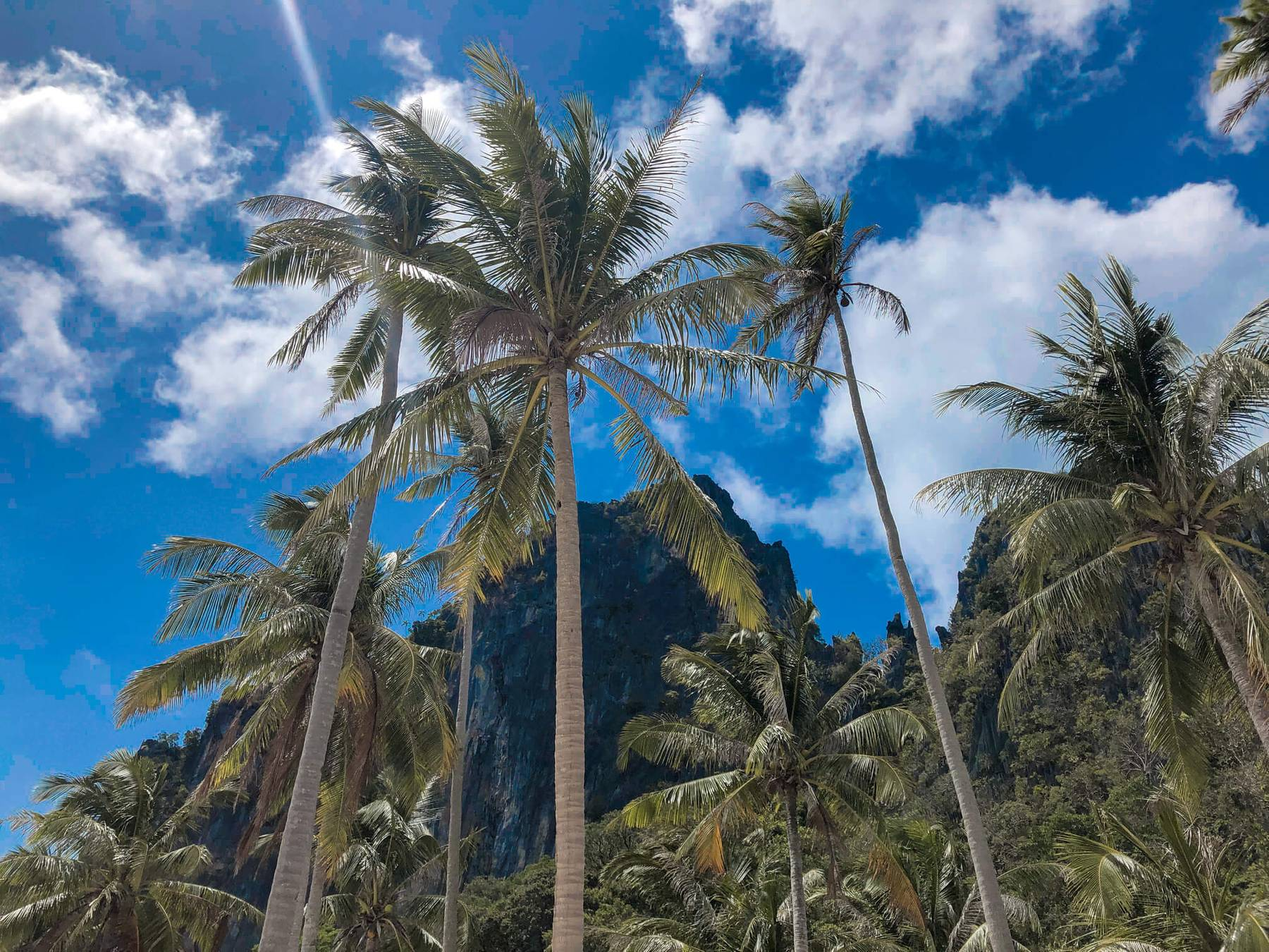
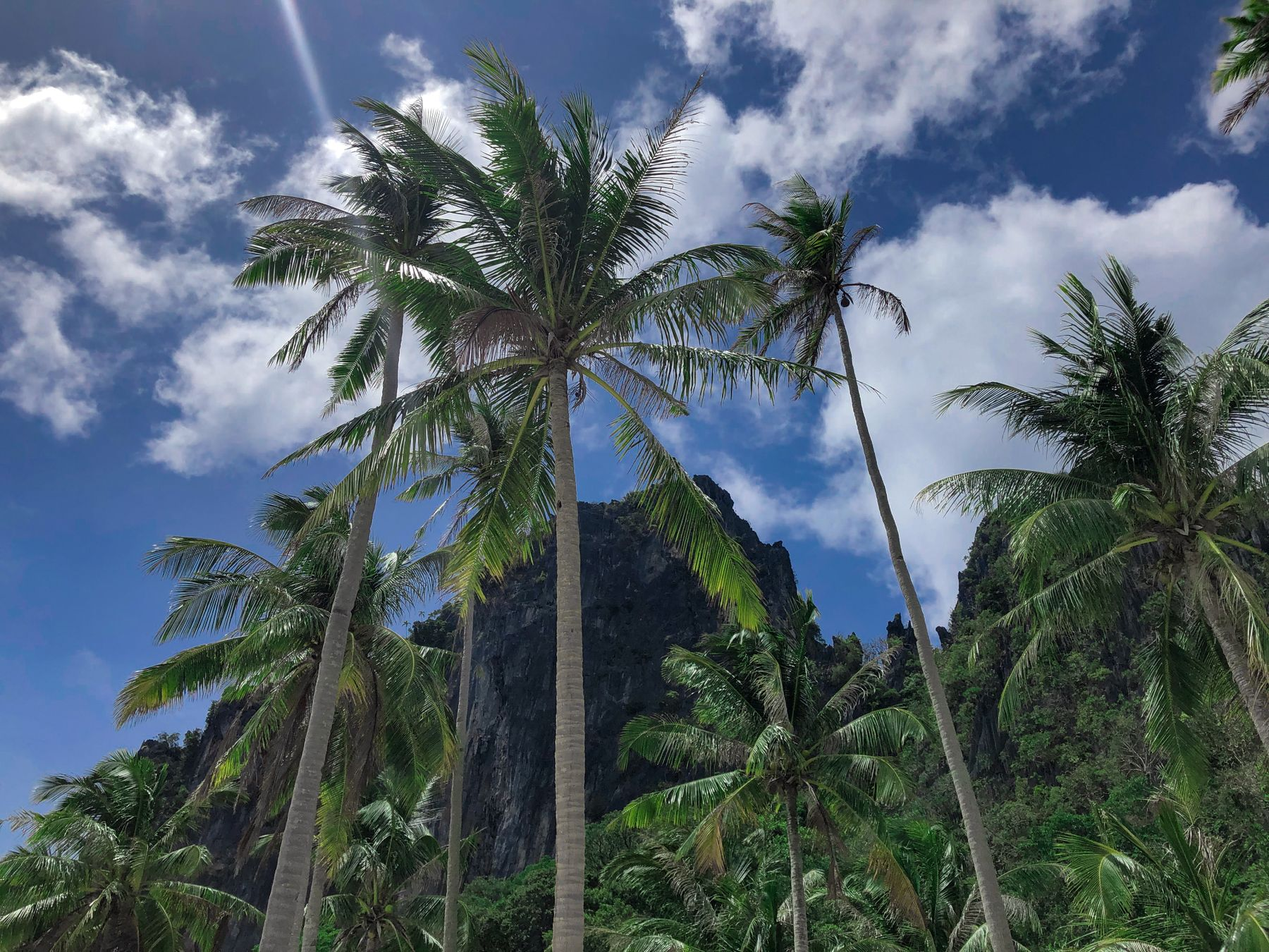
chore: stuff

diff --git a/src/pages/asia/vietnam/southern-vietnam/index.tsx b/src/pages/asia/vietnam/southern-vietnam/index.tsx
@@ -1,16 +1,18 @@
-import React, { useContext } from "react"
+import React, { useContext, useState } from "react"
 import SEO from "../../../../components/layout/seo"
 import vietnamHat from "../../../../images/asia/vietnam/hat.svg"
 import {
   VietnamBlogLayout,
   VietnamButtonLink,
   VietnamImageAsMedallion,
+  vietnamWeatherEntries,
 } from "../../../../components/core/asia/vietnam/vietnam"
 import {
   CityHomeSection,
   MainTitleSection,
   PointOfInterestSection,
   SectionContent,
+  SubHomeSection,
   SubSubHomeSection,
 } from "../../../../components/core/section"
 import { getArticles, getLinkLabel, isLinkPublished, sortByLabel } from "../../../../components/core/links/links.utils"
@@ -39,6 +41,8 @@ import { Divider } from "../../../../components/core/divider"
 import { Monument } from "../../../../components/icon/monument"
 import { Hiking } from "../../../../components/icon/hiking"
 import { CityIcon } from "../../../../components/icon/city"
+import { WeatherForHomePage } from "../../../../components/core/weather"
+import { MouseToolTip, TooltipContent } from "../../../../components/core/tooltipPortal"
 
 const namespace = "asia/vietnam/southern-vietnam/index"
 i18n.addResourceBundle("fr", namespace, translationFr)
@@ -50,6 +54,7 @@ const isNotCurrentPage = (city: CityLink) => city.id !== currentPageId
 const IndexPage: React.FunctionComponent<PageProps> = ({ location }) => {
   const { development } = useContext(ApplicationContext)
   const { t, i18n } = useCustomTranslation([namespace, "common"])
+  const [tooltipLabel, setTooltipLabel] = useState("")
   const cities = development
     ? vietnamLinks.cities.filter(isNotCurrentPage)
     : vietnamLinks.cities.filter(isLinkPublished).filter(isNotCurrentPage)
@@ -115,6 +120,13 @@ const IndexPage: React.FunctionComponent<PageProps> = ({ location }) => {
             </CityArticleContainer>
           </>
         )}
+        <Divider />
+        <SubHomeSection>{t("weather")}</SubHomeSection>
+        <WeatherForHomePage
+          entries={vietnamWeatherEntries(t).filter((entry) => entry.id === "south")}
+          onMouseLeave={() => setTooltipLabel("")}
+          onMouseEnter={setTooltipLabel}
+        />
         {cities.length > 0 && (
           <>
             <Divider className="mt2" />
@@ -136,6 +148,20 @@ const IndexPage: React.FunctionComponent<PageProps> = ({ location }) => {
         <GoToAllArticlesContainer>
           <VietnamButtonLink to="articles?country=vietnam">Tous nos articles</VietnamButtonLink>
         </GoToAllArticlesContainer>
+        <MouseToolTip>
+          {tooltipLabel ? (
+            <TooltipContent>
+              {tooltipLabel.split("\n").map((item, index) => {
+                return (
+                  <span key={index}>
+                    {item}
+                    <br />
+                  </span>
+                )
+              })}
+            </TooltipContent>
+          ) : null}
+        </MouseToolTip>
       </VietnamBlogLayout>
     </>
   )

diff --git a/src/components/core/weather.tsx b/src/components/core/weather.tsx
@@ -1169,23 +1169,23 @@ export const Weather: React.FunctionComponent<{
                         .concat(data.alt || [])
                         .map((alt) =>
                           alt === "hot" ? (
-                            <Hot className={`alt alt-left`} />
+                            <Hot className={`alt alt-left`} key={alt} />
                           ) : alt === "droplet" ? (
-                            <Droplet className={`alt alt-right`} />
+                            <Droplet className={`alt alt-right`} key={alt} />
                           ) : alt === "cold" ? (
-                            <Cold className={`alt alt-left`} />
+                            <Cold className={`alt alt-left`} key={alt} />
                           ) : alt === "arctic" ? (
-                            <Arctic className={`alt alt-left`} />
+                            <Arctic className={`alt alt-left`} key={alt} />
                           ) : alt === "snow-man" ? (
-                            <SnowMan className={`alt alt-right`} />
+                            <SnowMan className={`alt alt-right`} key={alt} />
                           ) : alt === "sakura" ? (
-                            <Sakura className={`alt alt-right`} />
+                            <Sakura className={`alt alt-right`} key={alt} />
                           ) : alt === "autumn" ? (
-                            <Autumn className={`alt alt-right`} />
+                            <Autumn className={`alt alt-right`} key={alt} />
                           ) : alt === "scuba" ? (
-                            <Scuba className={`alt alt-right`} />
+                            <Scuba className={`alt alt-right`} key={alt} />
                           ) : alt === "jelly-fish" ? (
-                            <JellyFish className={`alt alt-top-left`} />
+                            <JellyFish className={`alt alt-top-left`} key={alt} />
                           ) : null
                         )}
                     </td>

diff --git a/src/components/core/section.tsx b/src/components/core/section.tsx
@@ -28,7 +28,7 @@ import {
   FaUtensils,
   FaWalking,
 } from "react-icons/fa"
-import { maxWidth, mediumEnd, mobileEnd } from "./variables"
+import { maxWidth, mediumEnd, mediumStart, mobileEnd, smallEnd } from "./variables"
 import { useCustomTranslation } from "../../i18n-hook"
 import { Lang } from "./links/links.types"
 import styled from "@emotion/styled"
@@ -214,7 +214,7 @@ const homeSectionStyle = css`
     margin-bottom: 1rem;
   }
 `
-export const HomeSection: FunctionComponent<{ className?: string }> = ({ children, className = "" }) => (
+export const HomeSection: FunctionComponent<{ className?: string; id?: string }> = ({ children, className = "" }) => (
   <h2 className={`tc ttu mb4-l ${className}`} css={homeSectionStyle}>
     {children}
   </h2>
@@ -222,6 +222,33 @@ export const HomeSection: FunctionComponent<{ className?: string }> = ({ childre
 export const SubHomeSection = styled(HomeSection)`
   font-size: 1.38316rem; // h3
 `
+
+const mapSubHomeSectionStyle = css`
+  @media (min-width: ${mediumStart}) {
+    &.map-sub-home-section-break {
+      display: none;
+    }
+  }
+  @media (max-width: ${smallEnd}) {
+    &.map-sub-home-section-space {
+      display: none;
+    }
+  }
+`
+export const MapSubHomeSection: FunctionComponent<{ title: string; country: string }> = ({ title, country }) => {
+  return (
+    <>
+      <SubHomeSection className="map-sub-home-section-break" css={mapSubHomeSectionStyle}>
+        {title}
+        <br />
+        {country}
+      </SubHomeSection>
+      <SubHomeSection className="map-sub-home-section-space" css={mapSubHomeSectionStyle}>
+        {title} {country}
+      </SubHomeSection>
+    </>
+  )
+}
 export const SubSubHomeSection = styled(HomeSection)`
   font-size: 1.2rem; // h3.5
   margin-bottom: 1.45rem !important;

diff --git a/src/components/images/carousel.tsx b/src/components/images/carousel.tsx
@@ -5,6 +5,7 @@ import { ExtraImageProps } from "../../types/shared"
 export const CarouselImageQuery: React.FunctionComponent<ExtraImageProps & { image: string }> = ({
   className = "",
   image,
+  fluidObject = {},
 }) => {
   const data = useStaticQuery(graphql`
     query {
@@ -24,8 +25,8 @@ export const CarouselImageQuery: React.FunctionComponent<ExtraImageProps & { ima
       }
       philippines1: file(relativePath: { eq: "asia/philippines/carousel-philippines.jpg" }) {
         childImageSharp {
-          fluid(maxWidth: 1200, quality: 70, srcSetBreakpoints: [1200]) {
-            ...GatsbyImageSharpFluid_withWebp
+          fluid(maxWidth: 1800, quality: 80, srcSetBreakpoints: [1800]) {
+            ...GatsbyImageSharpFluid
           }
         }
       }
@@ -52,5 +53,5 @@ export const CarouselImageQuery: React.FunctionComponent<ExtraImageProps & { ima
       }
     }
   `)
-  return <Img fluid={data[image].childImageSharp.fluid} alt="Landscape" className={className} />
+  return <Img fluid={{ ...data[image].childImageSharp.fluid, ...fluidObject }} alt="Landscape" className={className} />
 }

diff --git a/resize.js b/resize.js
@@ -21,7 +21,7 @@ Promise.all(
     const optimizedName = match.replace(/(\..+)$/, (match, ext) => `-optimized${ext}`)
     const method = info.format === "png" ? "png" : "jpeg"
 
-    await stream.resize(width)[method]({ quality: QUALITY }).toFile(optimizedName)
+    await stream.resize(width)[method]({ quality: QUALITY, mozjpeg: true }).toFile(optimizedName)
 
     // return fs.rename(optimizedName, match)
   })
@@ -37,7 +37,7 @@ Promise.all(
     const optimizedName = match.replace(/(\..+)$/, (match, ext) => `-optimized${ext}`)
     const method = info.format === "png" ? "png" : "jpeg"
 
-    await stream.resize(width)[method]({ quality: QUALITY }).toFile(optimizedName)
+    await stream.resize(width)[method]({ quality: QUALITY, mozjpeg: true }).toFile(optimizedName)
 
     // return fs.rename(optimizedName, match)
   })

diff --git a/src/components/core/asia/vietnam/vietnam.tsx b/src/components/core/asia/vietnam/vietnam.tsx
@@ -133,6 +133,7 @@ export const VietnamButtonLink = styled(ButtonLink)`
 `
 export const vietnamWeatherEntries = (t: TFunction): WeatherEntry[] => [
   {
+    id: "north",
     label: t("common:link.north"),
     data: [
       {
@@ -203,6 +204,7 @@ export const vietnamWeatherEntries = (t: TFunction): WeatherEntry[] => [
     ],
   },
   {
+    id: "central",
     label: t("common:link.central"),
     data: [
       {
@@ -275,6 +277,7 @@ export const vietnamWeatherEntries = (t: TFunction): WeatherEntry[] => [
     ],
   },
   {
+    id: "south",
     label: t("common:link.south"),
     data: [
       {

diff --git a/src/pages/asia/vietnam/index.tsx b/src/pages/asia/vietnam/index.tsx
@@ -7,6 +7,7 @@ import {
   HomeSection,
   HomeSubSection,
   MainTitleSection,
+  MapSubHomeSection,
   PointOfInterestSection,
   SectionContent,
   SubHomeSection,
@@ -145,7 +146,7 @@ const IndexPage: React.FunctionComponent<PageProps> = ({ location }) => {
           onMouseEnter={setTooltipLabel}
         />
         <Divider />
-        <SubHomeSection>{t("map")}</SubHomeSection>
+        <MapSubHomeSection title={t("map")} country={t("country")} />{" "}
         <MapContainer>
           <img src={HomeVietnamImage} alt="Home Vietnam Image" />
         </MapContainer>

diff --git a/src/pages/asia/philippines/index.tsx b/src/pages/asia/philippines/index.tsx
@@ -6,6 +6,7 @@ import {
   HomeSection,
   HomeSubSection,
   MainTitleSection,
+  MapSubHomeSection,
   PointOfInterestSection,
   SectionContent,
   SubHomeSection,
@@ -138,7 +139,7 @@ const IndexPage: React.FunctionComponent<PageProps> = ({ location }) => {
           onMouseEnter={setTooltipLabel}
         />
         <Divider />
-        <SubHomeSection>{t("map")}</SubHomeSection>
+        <MapSubHomeSection title={t("map")} country={t("country")} />
         <MapContainer>
           <img src={PhilippinesMap} alt="Philippines Map" />
         </MapContainer>

diff --git a/src/pages/asia/japan/index.tsx b/src/pages/asia/japan/index.tsx
@@ -9,6 +9,7 @@ import {
   HomeSection,
   HomeSubSection,
   MainTitleSection,
+  MapSubHomeSection,
   PointOfInterestSection,
   SectionContent,
   SubHomeSection,
@@ -142,7 +143,7 @@ const IndexPage: React.FunctionComponent<PageProps> = ({ location }) => {
           onMouseEnter={setTooltipLabel}
         />
         <Divider />
-        <SubHomeSection>{t("map")}</SubHomeSection>
+        <MapSubHomeSection title={t("map")} country={t("country")} />
         <MapContainer>
           <img src={JapanMap} alt="Japan Map" />
         </MapContainer>

diff --git a/src/types/shared.ts b/src/types/shared.ts
@@ -54,6 +54,7 @@ interface WeatherData {
   alt?: WeatherAltIconType | WeatherAltIconType[]
 }
 export interface WeatherEntry {
+  id?: string
   label: string
   data: [
     WeatherData,
